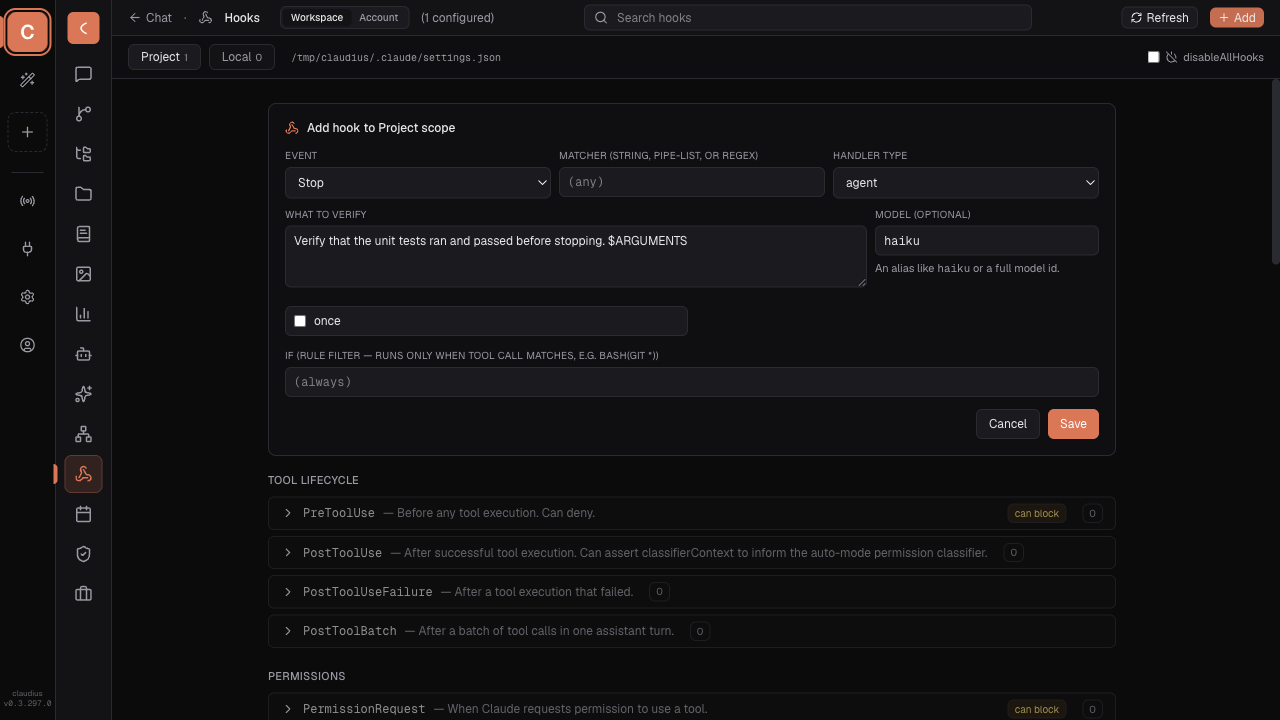
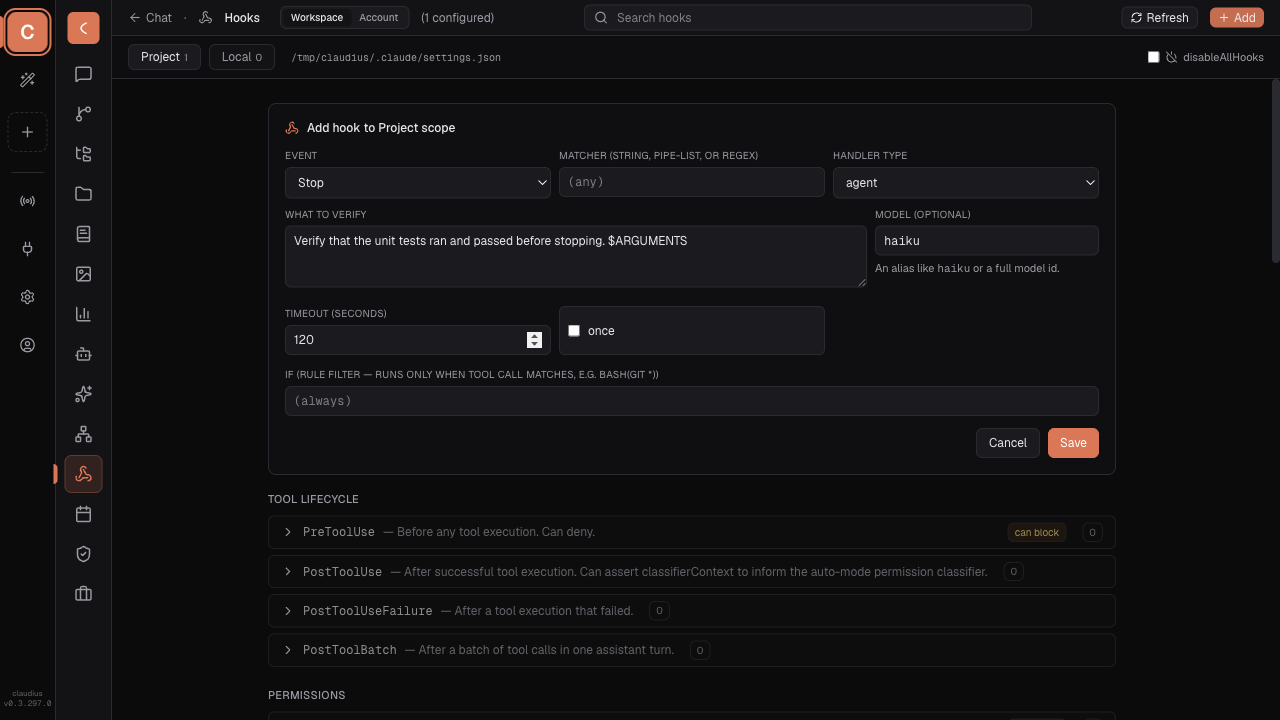
fix(hooks): timeout on agent/prompt hooks; only a prompt-less agent hook is flagged, with a shorter badge (CC 2.1.300 review)

diff --git a/app/[workspaceId]/hooks/page.tsx b/app/[workspaceId]/hooks/page.tsx
@@ -298,10 +298,10 @@ function EventRow({
                         {legacyAgentHookName(h) && <span>{legacyAgentHookName(h)}</span>}
                         <span
                           data-testid="hook-agent-legacy"
-                          title="Saved in an old shape ({agent: name}) with no prompt — Claude Code skips it when loading settings, so it never runs. Remove it and add it again with a prompt."
+                          title="Saved in an old shape ({agent: name}) with no prompt — Claude Code skips it when loading settings, so it never runs. Remove it and add it again with what to verify."
                           className="ml-2 rounded border border-amber-500/40 bg-amber-500/10 px-1 py-0.5 text-[10px] text-amber-300"
                         >
-                          ignored by Claude Code — re-create with a prompt
+                          won&apos;t run — no prompt
                         </span>
                       </>
                     )}
@@ -312,7 +312,7 @@ function EventRow({
                     )}
                     {/* CC 2.1.280 — an agent hook on PermissionRequest won't
                         run; flag the stale config so the author fixes it. */}
-                    {h.type === "agent" && !agentHandlerAllowed(spec.name) && (
+                    {h.type === "agent" && !isLegacyAgentHook(h) && !agentHandlerAllowed(spec.name) && (
                       <span
                         title="The engine won't run an agent hook on this event — use command or http"
                         className="ml-2 rounded border border-amber-500/40 bg-amber-500/10 px-1 py-0.5 text-[10px] text-amber-300"
@@ -478,6 +478,7 @@ function AddHookForm({
         type: "prompt",
         prompt,
         ...(model.trim() ? { model: model.trim() } : {}),
+        ...(timeout !== "" ? { timeout: Number(timeout) } : {}),
         ...(continueOnBlock ? { continueOnBlock: true } : {}),
         ...(once ? { once: true } : {}),
         ...(ifRule.trim() ? { if: ifRule.trim() } : {}),
@@ -494,6 +495,7 @@ function AddHookForm({
         type: "agent",
         prompt,
         ...(model.trim() ? { model: model.trim() } : {}),
+        ...(timeout !== "" ? { timeout: Number(timeout) } : {}),
         ...(once ? { once: true } : {}),
         ...(ifRule.trim() ? { if: ifRule.trim() } : {}),
       };
@@ -733,7 +735,22 @@ function AddHookForm({
         </div>
       )}
       {(type === "prompt" || type === "agent" || type === "mcp_tool") && (
-        <div className="mt-3 grid grid-cols-1 gap-2 sm:grid-cols-2">
+        <div className="mt-3 grid grid-cols-1 gap-2 sm:grid-cols-3">
+          {/* Agent and prompt hooks take a timeout too (seconds; an agent
+              hook's default is 60). */}
+          {(type === "prompt" || type === "agent") && (
+            <Field label="Timeout (seconds)">
+              <input
+                type="number"
+                min={0}
+                value={timeout}
+                onChange={(e) => setTimeout(e.target.value ? Number(e.target.value) : "")}
+                data-testid="hook-timeout-input"
+                placeholder={type === "agent" ? "60 (default)" : "(default)"}
+                className="w-full rounded-md border border-[var(--border)] bg-[var(--panel-2)] px-2 py-1.5 text-xs focus:outline-none"
+              />
+            </Field>
+          )}
           <ToggleField label="once" checked={once} onChange={setOnce} />
           {type === "prompt" && (
             <ToggleField label="continueOnBlock" checked={continueOnBlock} onChange={setContinueOnBlock} />

diff --git a/tests/e2e/cc-parity-2.1.300-agent-hook-model.spec.ts b/tests/e2e/cc-parity-2.1.300-agent-hook-model.spec.ts
@@ -14,7 +14,7 @@
  *
  * Now the form asks for what to verify plus an optional Model (alias or id),
  * on agent and prompt hooks alike, and saves the engine shape. Entries saved
- * in the old shape get an amber "ignored by Claude Code" badge so the user can
+ * in the old shape get an amber "won't run — no prompt" badge so the user can
  * re-create them.
  *
  * `/api/hooks` is mocked (the e2e workspace may point at this repo): the POST
@@ -88,7 +88,7 @@ test("Hooks editor saves agent hooks as {prompt, model} and flags the old shape"
   if ((await page.getByTestId("hook-agent-legacy").count()) === 0) await stopRow.click();
   const legacy = page.getByTestId("hook-agent-legacy");
   await expect(legacy).toHaveCount(1);
-  await expect(legacy).toContainText("ignored by Claude Code");
+  await expect(legacy).toHaveText("won't run — no prompt");
 
   // Add an agent hook on Stop with a model alias. A first-visit dev-server
   // remount can wipe the form mid-fill, so (re)open and fill until it sticks.
@@ -100,7 +100,9 @@ test("Hooks editor saves agent hooks as {prompt, model} and flags the old shape"
     await form.locator("select").nth(1).selectOption("agent");
     await form.getByTestId("hook-prompt-input").fill(VERIFY);
     await form.getByTestId("hook-model-input").fill("haiku");
+    await form.getByTestId("hook-timeout-input").fill("120");
     await expect(form.getByTestId("hook-prompt-input")).toHaveValue(VERIFY, { timeout: 1_000 });
+    await expect(form.getByTestId("hook-timeout-input")).toHaveValue("120", { timeout: 1_000 });
     await expect(form.getByTestId("hook-model-input")).toHaveValue("haiku", { timeout: 1_000 });
   }).toPass({ timeout: 20_000 });
   // The old "Agent name" field is gone; the prompt is labelled for an agent.
@@ -115,7 +117,7 @@ test("Hooks editor saves agent hooks as {prompt, model} and flags the old shape"
   // The engine's shape: prompt + model, and no `agent` key.
   expect(posted).toHaveLength(1);
   expect(posted[0].event).toBe("Stop");
-  expect(posted[0].group.hooks[0]).toEqual({ type: "agent", prompt: VERIFY, model: "haiku" });
+  expect(posted[0].group.hooks[0]).toEqual({ type: "agent", prompt: VERIFY, model: "haiku", timeout: 120 });
   expect(posted[0].group.hooks[0]).not.toHaveProperty("agent");
 
   await expect(page.getByText("(2 configured)")).toBeVisible();

diff --git a/lib/shared/hook-events.ts b/lib/shared/hook-events.ts
@@ -175,11 +175,11 @@ export type HookOnFailure = "block";
 export type HookHandler =
   | { type: "command"; command: string; timeout?: number; async?: boolean; asyncRewake?: boolean; once?: boolean; if?: string; onFailure?: HookOnFailure }
   | { type: "http"; url: string; method?: "POST" | "GET"; headers?: Record<string, string>; timeout?: number; async?: boolean; asyncRewake?: boolean; once?: boolean; if?: string; onFailure?: HookOnFailure }
-  | { type: "prompt"; prompt: string; model?: string; continueOnBlock?: boolean; once?: boolean; if?: string }
+  | { type: "prompt"; prompt: string; model?: string; timeout?: number; continueOnBlock?: boolean; once?: boolean; if?: string }
   // CC 2.1.300 — an agent hook is a verifier PROMPT run on a model (Haiku by
   // default), not a named subagent: `{type:"agent", prompt, model?}` per the
   // engine schema (sdk.d.ts). See `isLegacyAgentHook` for the old shape.
-  | { type: "agent"; prompt: string; model?: string; once?: boolean; if?: string }
+  | { type: "agent"; prompt: string; model?: string; timeout?: number; once?: boolean; if?: string }
   | { type: "mcp_tool"; tool: string; arguments?: Record<string, unknown>; once?: boolean; if?: string };
 
 /**
@@ -202,7 +202,9 @@ export const AGENT_HANDLER_DISALLOWED_EVENTS: readonly HookEvent[] = ["Permissio
 export function isLegacyAgentHook(h: unknown): boolean {
   if (!h || typeof h !== "object") return false;
   const o = h as { type?: unknown; prompt?: unknown };
-  return o.type === "agent" && (typeof o.prompt !== "string" || o.prompt.trim() === "");
+  // The engine schema only needs `prompt` to be a string — an empty one still
+  // loads — so only a missing/non-string prompt is the skipped shape.
+  return o.type === "agent" && typeof o.prompt !== "string";
 }
 
 /** The legacy agent hook's subagent name, for display. */

diff --git a/tests/unit/hook-events.test.ts b/tests/unit/hook-events.test.ts
@@ -115,9 +115,13 @@ describe("isLegacyAgentHook / legacyAgentHookName", () => {
     expect(legacyAgentHookName(legacy)).toBe("test-verifier");
   });
 
-  test("flags an agent hook with an empty prompt, without inventing a name", () => {
-    expect(isLegacyAgentHook({ type: "agent", prompt: "  " })).toBe(true);
-    expect(legacyAgentHookName({ type: "agent", prompt: "" })).toBeNull();
+  test("flags a prompt-less agent hook without inventing a name", () => {
+    expect(isLegacyAgentHook({ type: "agent" })).toBe(true);
+    expect(legacyAgentHookName({ type: "agent" })).toBeNull();
+  });
+
+  test("an empty-string prompt still loads in the engine, so it isn't flagged", () => {
+    expect(isLegacyAgentHook({ type: "agent", prompt: "" })).toBe(false);
   });
 
   test("accepts the engine shape, with or without a model", () => {
